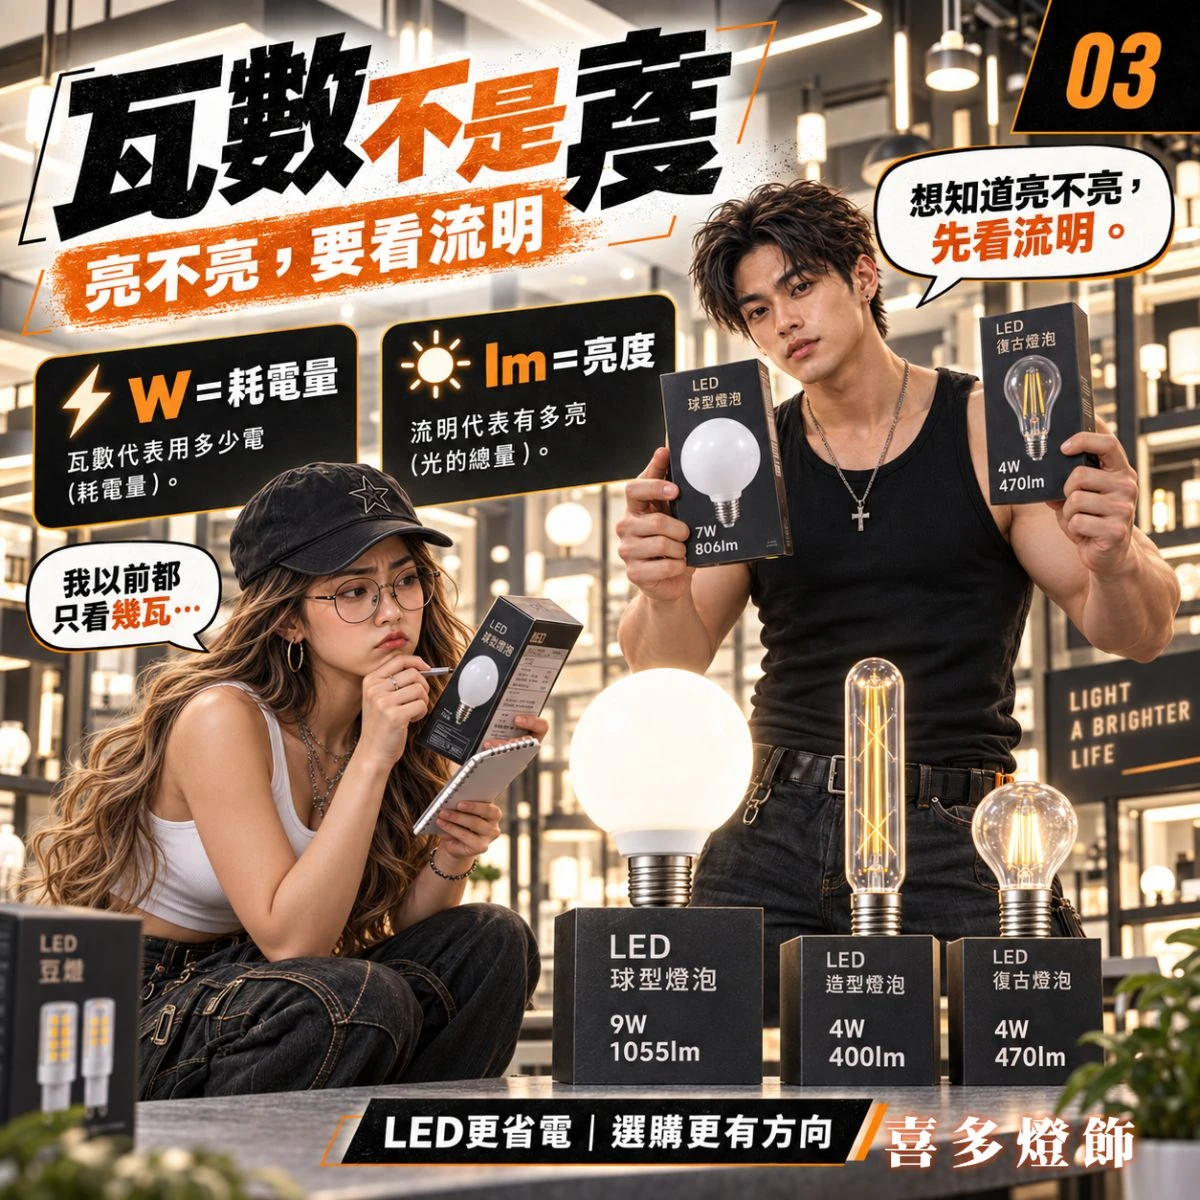
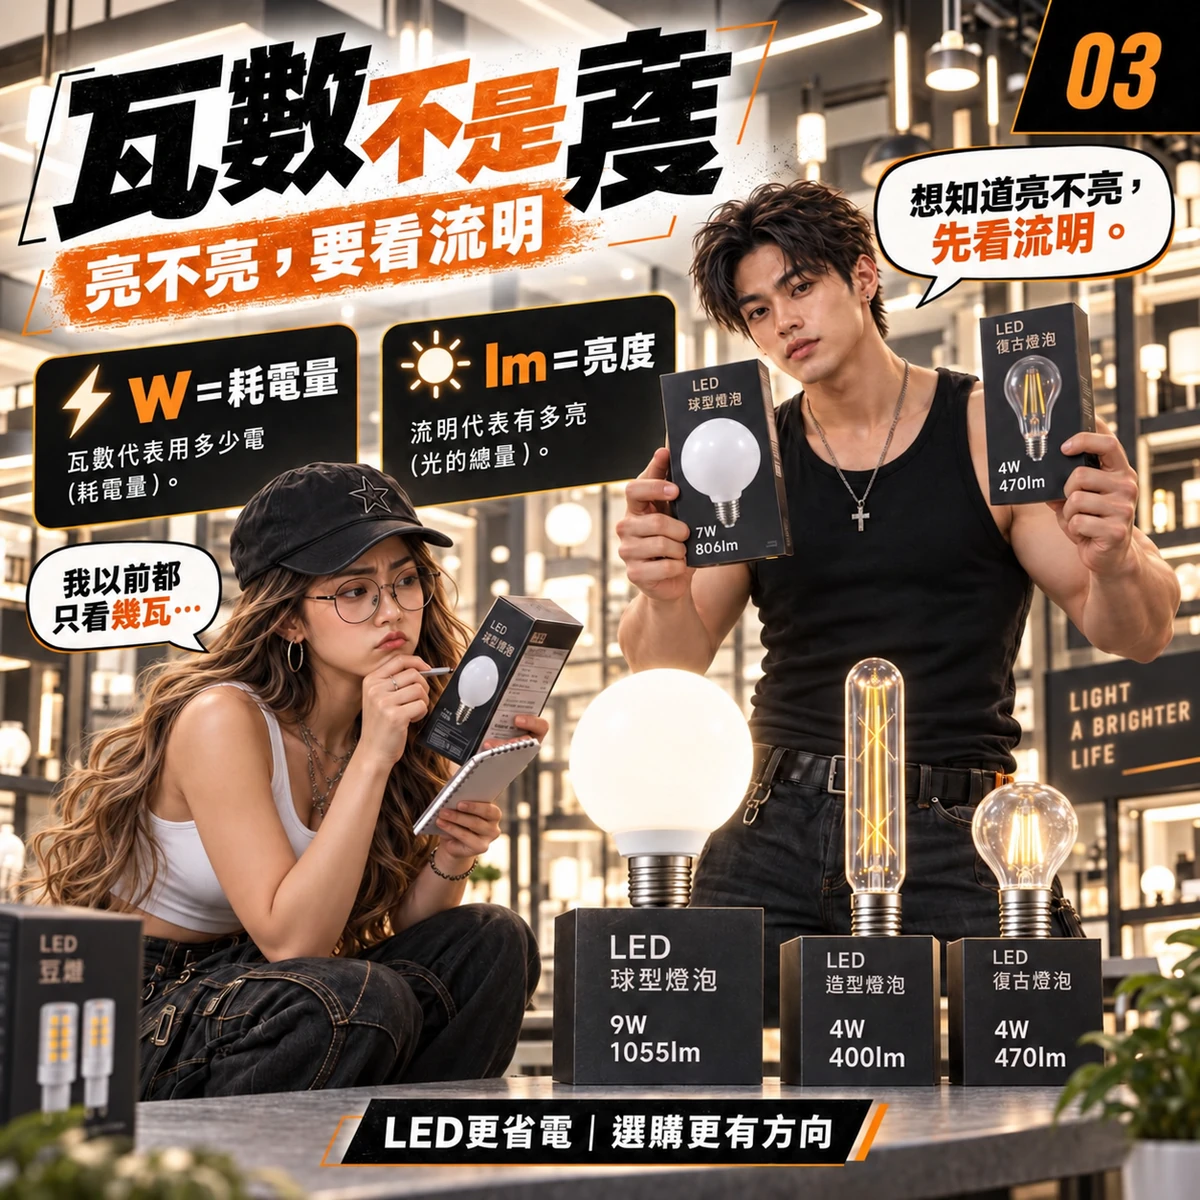
Remove lighting store name from first lighting knowledge card

diff --git a/lighting-knowledge-cards.html b/lighting-knowledge-cards.html
@@ -10,7 +10,7 @@
     <meta property="og:description" content="Pamela Creative Studio 照明知識圖卡作品。">
     <meta property="og:type" content="website">
     <meta property="og:url" content="https://pamela72.com/lighting-knowledge-cards.html">
-    <meta property="og:image" content="https://pamela72.com/assets/images/lighting-knowledge-cards/01-watts-and-lumens.webp">
+    <meta property="og:image" content="https://pamela72.com/assets/images/lighting-knowledge-cards/01-watts-and-lumens.webp?v=20261011-no-brand">
     <meta property="og:image:alt" content="瓦數不是亮度：照明瓦數與流明知識圖卡">
     <meta property="og:locale" content="zh_TW">
     <link rel="icon" href="assets/icons/logo.svg" type="image/svg+xml">
@@ -29,7 +29,7 @@
       <section class="project-gallery project-gallery--illustrations page-shell" aria-labelledby="project-title">
         <h1 id="project-title" class="sr-only">照明知識圖卡作品</h1>
         <div class="project-gallery__content">
-          <img src="assets/images/lighting-knowledge-cards/01-watts-and-lumens.webp" alt="瓦數不是亮度：照明瓦數與流明知識圖卡" width="1200" height="1200" decoding="async" draggable="false" fetchpriority="high">
+          <img src="assets/images/lighting-knowledge-cards/01-watts-and-lumens.webp?v=20261011-no-brand" alt="瓦數不是亮度：照明瓦數與流明知識圖卡" width="1200" height="1200" decoding="async" draggable="false" fetchpriority="high">
           <img src="assets/images/lighting-knowledge-cards/02-color-temperature.webp" alt="色溫怎麼選：照明色溫知識圖卡" width="1200" height="1200" decoding="async" draggable="false" loading="lazy">
         </div>
       </section>
